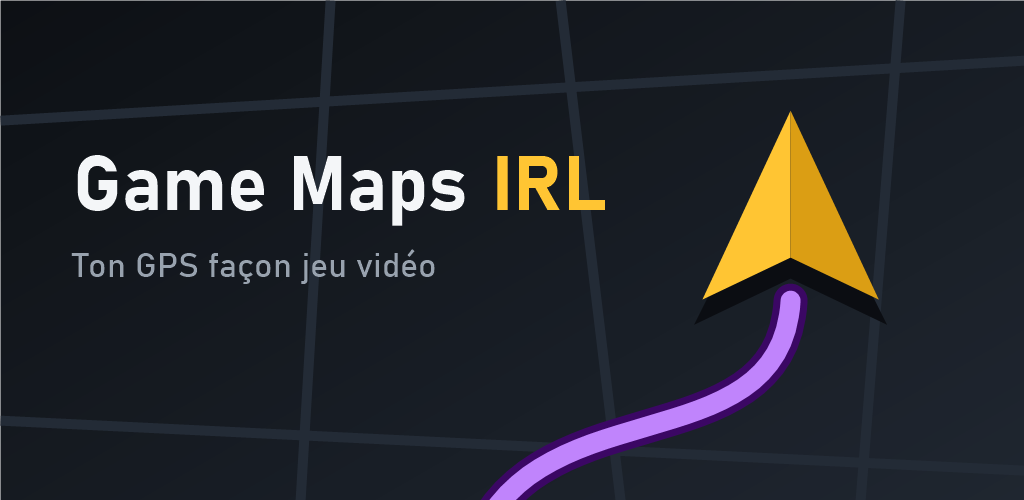
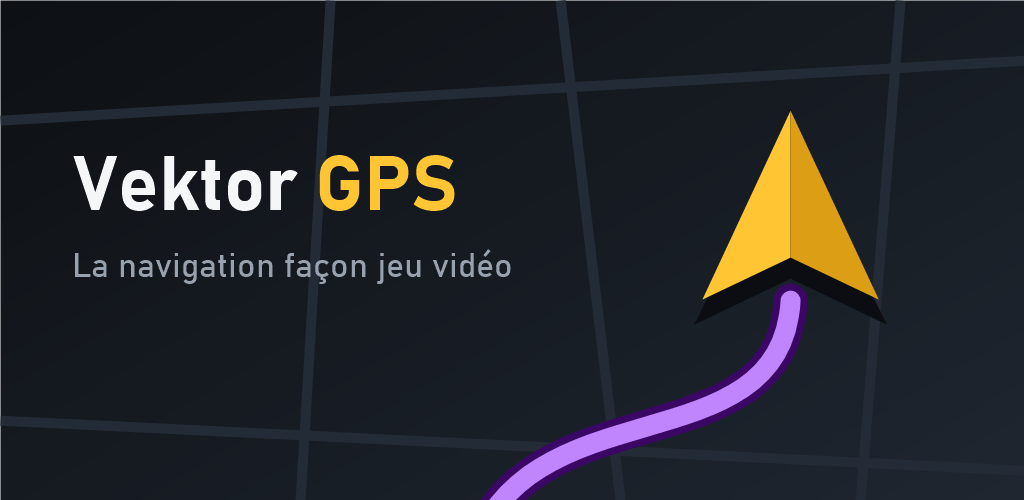
feat: rename the app to Vektor GPS

Changed region(s): [[0.0625, 0.3, 0.5938, 0.45], [0.0625, 0.48, 0.5, 0.57]]

diff --git a/app/src/main/java/com/gamemaps/irl/service/notification/NavigationNotificationContent.kt b/app/src/main/java/com/gamemaps/irl/service/notification/NavigationNotificationContent.kt
@@ -20,7 +20,7 @@ data class NavigationNotificationContent(val title: String, val text: String) {
             is NavigationState.Previewing -> NavigationNotificationContent("Itinéraire prêt", state.destination.name)
             is NavigationState.Arrived -> NavigationNotificationContent("Vous êtes arrivé", state.destination.name)
             is NavigationState.Failed -> NavigationNotificationContent("Itinéraire introuvable", state.destination.name)
-            NavigationState.Idle -> NavigationNotificationContent("Game Maps IRL", "Guidage arrêté")
+            NavigationState.Idle -> NavigationNotificationContent("Vektor GPS", "Guidage arrêté")
         }
 
         private fun navigating(state: NavigationState.Navigating, nowMillis: Long): NavigationNotificationContent {

diff --git a/app/src/main/java/com/gamemaps/irl/data/network/HttpClientFactory.kt b/app/src/main/java/com/gamemaps/irl/data/network/HttpClientFactory.kt
@@ -6,7 +6,7 @@ import java.util.concurrent.TimeUnit
 /** Crée le client HTTP unique de l'application. */
 object HttpClientFactory {
 
-    private const val USER_AGENT = "GameMapsIRL/0.1 (Android; https://github.com/Maxenceboo/map)"
+    private const val USER_AGENT = "VektorGPS/1.0 (Android; https://github.com/Maxenceboo/map)"
 
     fun create(): OkHttpClient = OkHttpClient.Builder()
         .connectTimeout(10, TimeUnit.SECONDS)

diff --git a/app/src/main/java/com/gamemaps/irl/ui/settings/sections/AboutSection.kt b/app/src/main/java/com/gamemaps/irl/ui/settings/sections/AboutSection.kt
@@ -41,7 +41,7 @@ fun AboutSection(devMode: Boolean, demoLocation: Boolean, onSetDevMode: (Boolean
     }
 
     SettingsGroup {
-        SettingsPlainRow(Icons.Filled.Info, "Game Maps IRL", "Version $version") {
+        SettingsPlainRow(Icons.Filled.Info, "Vektor GPS", "Version $version") {
             if (devMode) return@SettingsPlainRow
             taps++
             val remaining = TAPS_TO_UNLOCK - taps

diff --git a/store/fiche-play-store.md b/store/fiche-play-store.md
@@ -2,7 +2,7 @@
 
 ## Nom de l'application (30 caractères max)
 
-    Game Maps IRL – GPS façon jeu
+    Vektor GPS – navigation
 
 ## Description courte (80 caractères max)
 
@@ -10,7 +10,7 @@
 
 ## Description complète
 
-    Game Maps IRL transforme tes trajets en mission : une carte de nuit, un itinéraire
+    Vektor GPS transforme tes trajets en mission : une carte de nuit, un itinéraire
     lumineux et ton véhicule en 3D au milieu de l'écran, sur ton téléphone comme sur
     l'écran de ta voiture.
 

diff --git a/store/politique-de-confidentialite.md b/store/politique-de-confidentialite.md
@@ -1,8 +1,8 @@
-# Politique de confidentialité — Game Maps IRL
+# Politique de confidentialité — Vektor GPS
 
 *Dernière mise à jour : 5 octobre 2026*
 
-Game Maps IRL est une application de navigation. Elle fonctionne sans compte et sans publicité.
+Vektor GPS est une application de navigation. Elle fonctionne sans compte et sans publicité.
 
 ## Ce que l'application utilise
 

diff --git a/ARCHITECTURE.md b/ARCHITECTURE.md
@@ -1,4 +1,4 @@
-# Architecture — Game Maps IRL (version native Kotlin)
+# Architecture — Vektor GPS (version native Kotlin)
 
 Refonte 100 % native (option B du [cahier des charges](./CAHIER_DES_CHARGES.md) §10) :
 Kotlin + Jetpack Compose sur le téléphone, MapLibre Native pour la carte, Car App Library pour Android Auto.

diff --git a/README.md b/README.md
@@ -1,4 +1,4 @@
-# Game Maps IRL
+# Vektor GPS
 
 Un GPS qui ressemble à un jeu vidéo : carte de nuit, itinéraire lumineux, véhicule en 3D.
 Application Android native (Kotlin), avec Android Auto.

diff --git a/store/direction-artistique.md b/store/direction-artistique.md
@@ -1,4 +1,4 @@
-# Direction artistique — Game Maps IRL
+# Direction artistique — Vektor GPS
 
 ## L'idée
 
